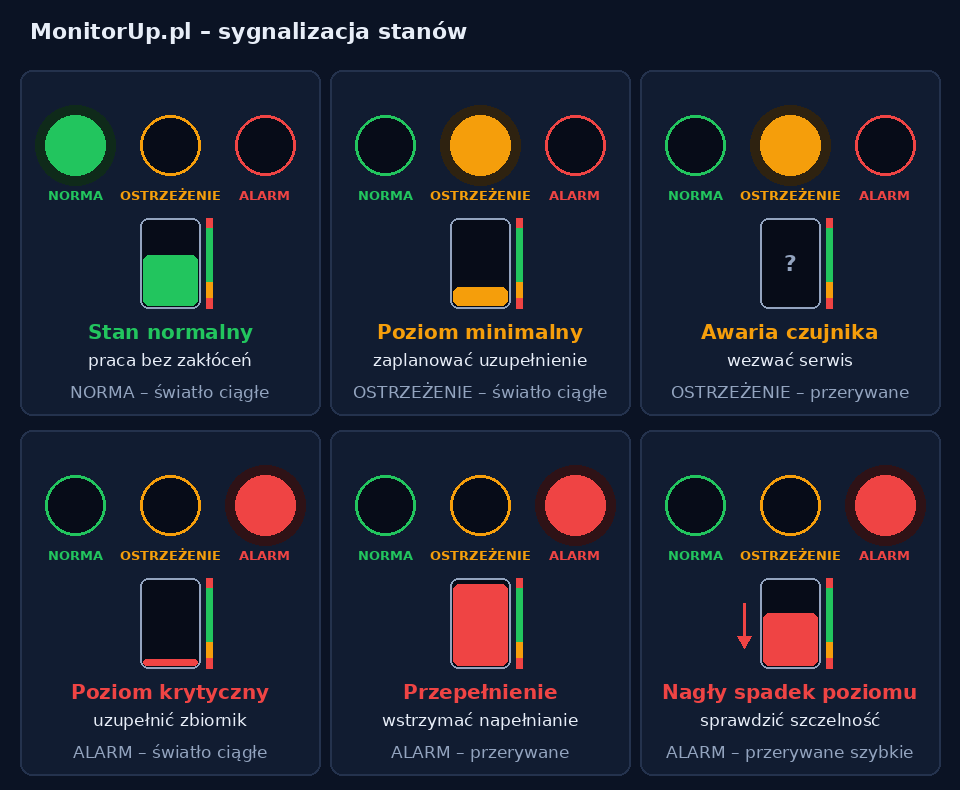
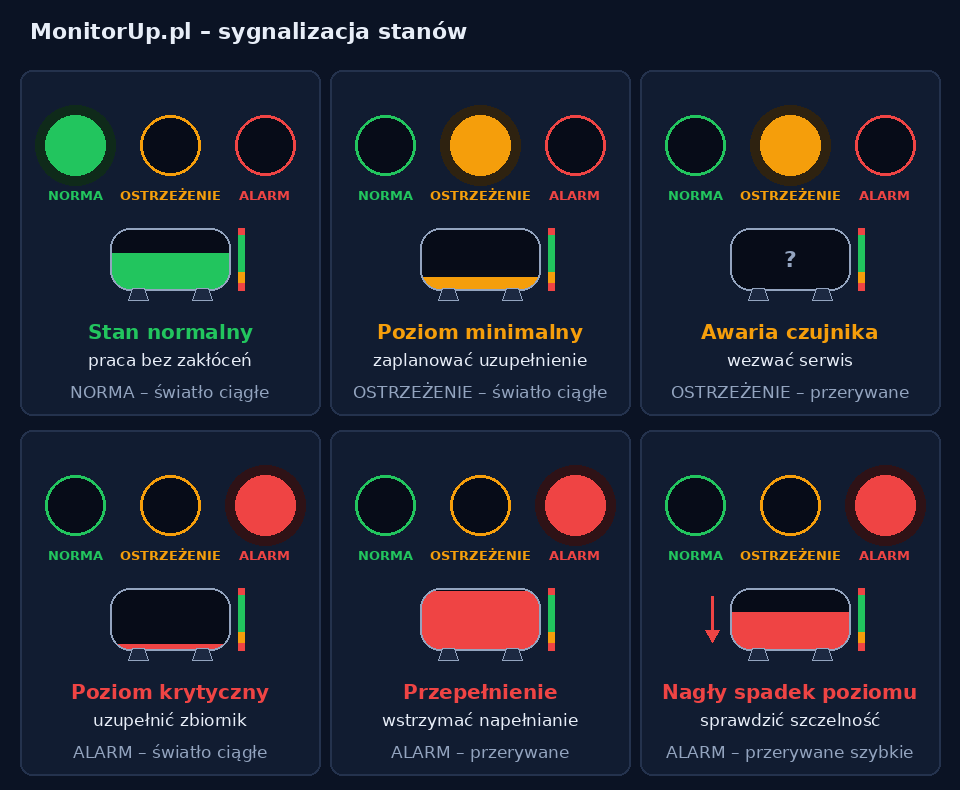
Nakładka i animacja: zbiornik leżący na siodłach

diff --git a/grafika/animacja_gen.py b/grafika/animacja_gen.py
@@ -21,7 +21,7 @@ STATES = [("Stan normalny", "praca bez zakłóceń", GRN[0], (1, 0, 0)),
 FPS, LOOP = 20, 2.0
 W, H, PW, PH = 960, 790, 300, 345
 # poziom w zbiorniku dla stanu (0–1); None = nieznany (awaria czujnika), 'spadek' = animowany spadek
-LEVEL = [0.60, 0.22, None, 0.07, 0.96, 'spadek']
+LEVEL = [0.60, 0.22, None, 0.10, 0.96, 'spadek']
 ZONES = [(0.00, 0.12, RED[0]), (0.12, 0.30, AMB[0]), (0.30, 0.90, GRN[0]), (0.90, 1.00, RED[0])]
 
 
@@ -49,21 +49,31 @@ for i in range(int(FPS * LOOP)):
             d.ellipse((cx - 30, cy - 30, cx + 30, cy + 30), fill=col if lit else "#070c18", outline=col, width=3)
             d.text((cx, cy + 50), lab, font=f_l, fill=col, anchor="mm")
         # zbiornik: strefy jako pasek z boku, wypełnienie w kolorze stanu
-        tx, ty, tw, th = x0 + PW / 2 - 30, y0 + 148, 60, 90
-        d.rounded_rectangle((tx, ty, tx + tw, ty + th), 8, fill="#070c18", outline=MUTED, width=2)
+        tx, ty, tw, th = x0 + PW / 2 - 60, y0 + 158, 120, 62
+        r = th // 3
+        d.rounded_rectangle((tx, ty, tx + tw, ty + th), r, fill="#070c18")
         for lo, hi, zc in ZONES:
-            d.rectangle((tx + tw + 6, ty + th * (1 - hi), tx + tw + 12, ty + th * (1 - lo)), fill=zc)
+            d.rectangle((tx + tw + 8, ty + th * (1 - hi), tx + tw + 14, ty + th * (1 - lo)), fill=zc)
         lv = LEVEL[k]
         if lv == "spadek":
             lv = 0.62 - 0.30 * ((t % LOOP) / LOOP)
         if lv is None:
             d.text((tx + tw / 2, ty + th / 2), "?", font=f_t, fill=MUTED, anchor="mm")
         else:
-            d.rounded_rectangle((tx + 3, ty + 3 + (th - 6) * (1 - lv), tx + tw - 3, ty + th - 3), 6, fill=tcol)
+            fill = Image.new("RGB", (tw, th), tcol)
+            mask = Image.new("L", (tw, th), 0)
+            md = ImageDraw.Draw(mask)
+            md.rounded_rectangle((0, 0, tw - 1, th - 1), r, fill=255)
+            md.rectangle((0, 0, tw, int(th * (1 - lv))), fill=0)
+            im.paste(fill, (int(tx), int(ty)), mask)
             if LEVEL[k] == "spadek":
-                ax = tx - 16
-                d.line((ax, ty + 25, ax, ty + 65), fill=tcol, width=3)
-                d.polygon([(ax - 7, ty + 58), (ax + 7, ty + 58), (ax, ty + 70)], fill=tcol)
+                ax = tx - 18
+                d.line((ax, ty + 8, ax, ty + 48), fill=tcol, width=3)
+                d.polygon([(ax - 7, ty + 42), (ax + 7, ty + 42), (ax, ty + 54)], fill=tcol)
+        d.rounded_rectangle((tx, ty, tx + tw, ty + th), r, outline=MUTED, width=2)
+        for sx in (tx + 22, tx + tw - 34):
+            d.polygon([(sx, ty + th - 2), (sx + 12, ty + th - 2), (sx + 16, ty + th + 10), (sx - 4, ty + th + 10)],
+                      fill="#1c2942", outline=MUTED)
         d.text((x0 + PW / 2, y0 + 262), title, font=f_b, fill=tcol, anchor="mm")
         d.text((x0 + PW / 2, y0 + 290), todo, font=f_s, fill=TXT, anchor="mm")
         how = {(1, 0, 0): "NORMA – światło ciągłe", (0, 1, 0): "OSTRZEŻENIE – światło ciągłe",

diff --git a/grafika/nakladka_gen.py b/grafika/nakladka_gen.py
@@ -82,11 +82,11 @@ svg += [hole(bx, by, ACC),
         text(bx, by + 29.5, "ALARMU", 4.6, ACC, "bold", ls=.4)]
 
 # zbiornik ze strefami w kolorach kontrolek (od dołu: krytyczny, minimalny, norma, przepełnienie)
-TKX, TKY, TKW, TKH = 104, 207, 30, 64
-zones = [(0.00, 0.12, RED, "POZIOM KRYTYCZNY"), (0.12, 0.30, AMB, "POZIOM MINIMALNY"),
+TKX, TKY, TKW, TKH = 84, 215, 66, 34          # zbiornik leżący
+zones = [(0.00, 0.12, RED, "KRYTYCZNY"), (0.12, 0.30, AMB, "MINIMALNY"),
          (0.30, 0.90, GRN, "NORMA"), (0.90, 1.00, RED, "PRZEPEŁNIENIE")]
-svg.append(f"<clipPath id='tk'><rect x='{TKX}' y='{TKY}' width='{TKW}' height='{TKH}' rx='5'/></clipPath>")
-svg.append(f"<rect x='{TKX}' y='{TKY}' width='{TKW}' height='{TKH}' rx='5' fill='#060b16'/>")
+svg.append(f"<clipPath id='tk'><rect x='{TKX}' y='{TKY}' width='{TKW}' height='{TKH}' rx='11'/></clipPath>")
+svg.append(f"<rect x='{TKX}' y='{TKY}' width='{TKW}' height='{TKH}' rx='11' fill='#060b16'/>")
 svg.append("<g clip-path='url(#tk)'>")
 for lo, hi, col, lab in zones:
     y1, y2 = TKY + TKH * (1 - hi), TKY + TKH * (1 - lo)
@@ -94,7 +94,9 @@ for lo, hi, col, lab in zones:
     if lo > 0:
         svg.append(f"<line x1='{TKX}' y1='{y2:.2f}' x2='{TKX + TKW}' y2='{y2:.2f}' stroke='#0b1324' stroke-width='.6'/>")
 svg.append("</g>")
-svg.append(f"<rect x='{TKX}' y='{TKY}' width='{TKW}' height='{TKH}' rx='5' fill='none' stroke='{MUTED}' stroke-width='.6'/>")
+svg.append(f"<rect x='{TKX}' y='{TKY}' width='{TKW}' height='{TKH}' rx='11' fill='none' stroke='{MUTED}' stroke-width='.6'/>")
+for sx in (TKX + 12, TKX + TKW - 18):      # siodła
+    svg.append(f"<path d='M{sx} {TKY + TKH - 2}h6l2 7h-10z' fill='#1c2942' stroke='{MUTED}' stroke-width='.4'/>")
 for lo, hi, col, lab in zones:
     ym = TKY + TKH * (1 - (lo + hi) / 2)
     svg.append(f"<line x1='{TKX + TKW + 1.5}' y1='{ym:.2f}' x2='{TKX + TKW + 5}' y2='{ym:.2f}' stroke='{col}' stroke-width='.5'/>")
